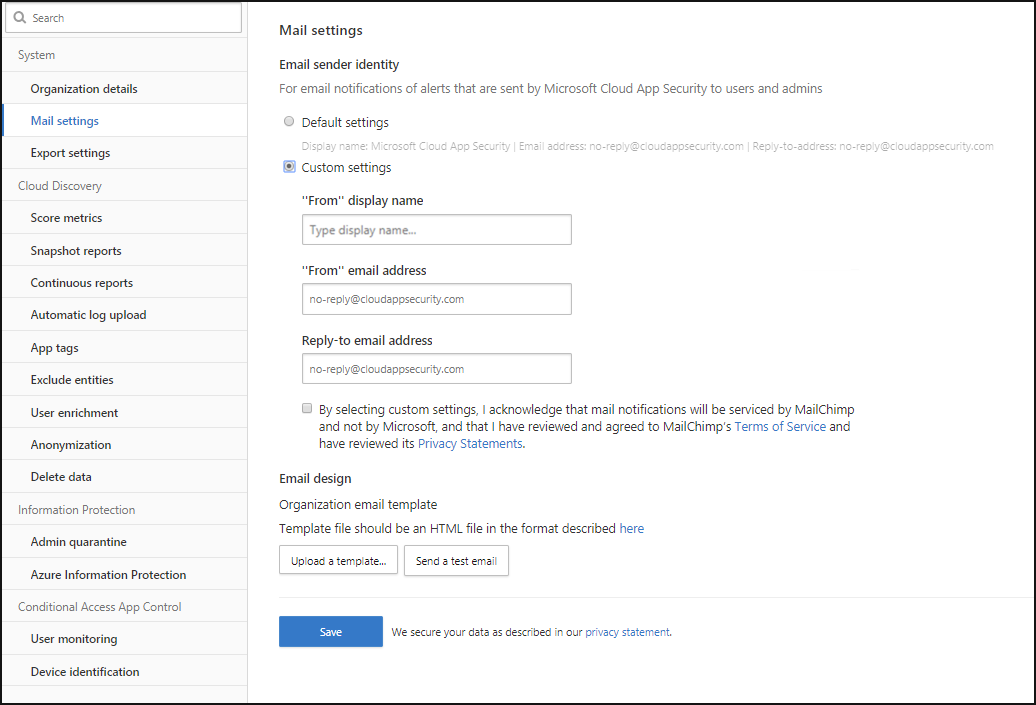
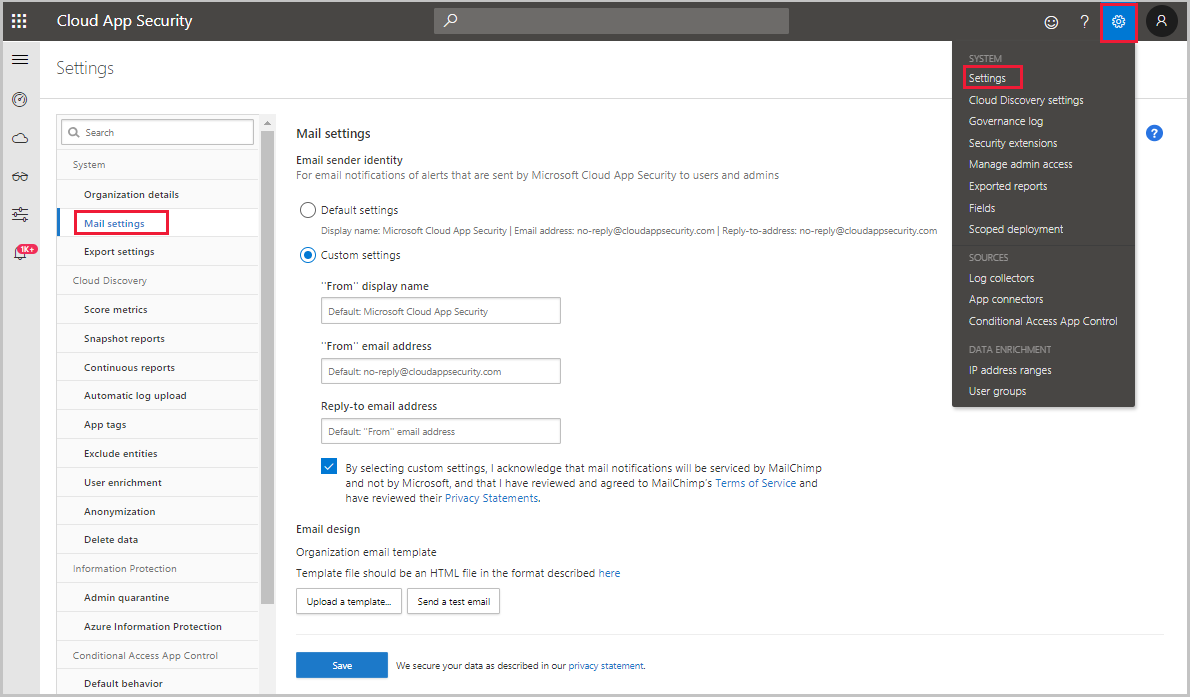
PNG9- updating screenshots and text for Ux change

diff --git a/CloudAppSecurityDocs/mail-settings.md b/CloudAppSecurityDocs/mail-settings.md
@@ -7,7 +7,7 @@ keywords:
 author: rkarlin
 ms.author: rkarlin
 manager: mbaldwin
-ms.date: 5/29/2018
+ms.date: 11/16/2018
 ms.topic: conceptual
 ms.prod:
 ms.service: cloud-app-security
@@ -25,42 +25,50 @@ ms.suite: ems
 #ms.custom:
 
 ---
+# Email notification preferences
 
 *Applies to: Microsoft Cloud App Security*
 
+This article provides information about how to personalize the email notifications sent by Cloud App Security.
 
-##  <a name="mailsettings"></a> Set email notification preferences  
+## <a name="mailsettings"></a> Set email notification preferences  
 
-To set parameters for email notifications sent from Microsoft Cloud App Security to administrators requesting alerts, and notifications sent to end users about breaches in which they are involved, follow this procedure. For information about the Microsoft Cloud App Security email server IP address that you should whitelist in your anti-spam service, see [Network requirements](network-requirements.md). 
+ Microsoft Cloud App Security sends email notifications to administrators requesting alerts and to end users involved in breaches. To set parameters for email notifications, follow this procedure. For information about the Microsoft Cloud App Security email server IP address that you should whitelist in your anti-spam service, see [Network requirements](network-requirements.md).
 
-
-1. In the menu bar, click the settings cog ![settings icon](./media/settings-icon.png "settings icon") and select **Settings**, and then select the **Mail settings** tab.  
+1. In the menu bar, click the settings cog, select **Settings**, and then select the **Mail settings** tab.  
 
    ![mail settings](./media/mail-settings-config.png)
 
-2. Under **Email sender identity**: If you are planning to use the default email settings, you don't need to change anything in this section. If you want to customize the email sender identity, you can set any of the settings here to customize the field you want to change. You can change any or all of the following: **From display name**, **From email address**, **Reply-to email address**. Microsoft Cloud App Security accomplishes this for you by using a third-party mail service called MailChimp®. Make sure you review and accept MailChimp's Terms of Service and Privacy Statement in order to enable this - otherwise Microsoft Cloud App Security will send the notifications using the default settings.
-   
+2. Under **Email sender identity**: If you're planning to use the default email settings, you don't need to change anything in this section. If you want to customize the email sender identity, you can set any of the settings here to customize the field you want to change. You can change any or all of the following items: **From display name**, **From email address**, **Reply-to email address**. Microsoft Cloud App Security accomplishes the customization by using a third-party mail service called MailChimp®. Make sure you review and accept MailChimp's Terms of Service and Privacy Statement to enable customization. Otherwise, Microsoft Cloud App Security will send the notifications using the default settings.
+ 
    > [!NOTE]
    > Only unicode characters are supported in the display name and the email address according to the [rfc822 standard](http://www.rfc-editor.org/rfc/rfc822.txt).
 
   
-3. For the **Email design**, you can use an html file to customize and design the email messages sent from the system. The html file used for your template should include the following:  
+3. For the **Email design**, you can use an html file to customize and design the email messages sent from the system. The html file used for your template should include the following things:  
   
-   -   All template CSS files should be inline in the template.  
+   - All template CSS files should be inline in the template.  
   
-   -   The template should have three un-editable placeholders:  
+   - The template should have three uneditable placeholders:  
   
-        %%logo%% - a URL to your company's logo that was uploaded in the General setting page  
+        - **%%logo%%** - URL to your company's logo that was uploaded in the General setting page.  
   
-        %%title%% - a placeholder for the title of the email, as set by the policy.  
+        - **%%title%%** - Placeholder for the title of the email, as set by the policy.  
 
-        %%content%% - a placeholder for the content that will be included for end users, as set by the policy.  
-     
+        - **%%content%%** - Placeholder for the content that will be included for end users, as set by the policy.  
+
 4. Click **Upload a template...** and select the file you created. 
 
-5. Then, click **Send a test email** to send yourself a test email to see an example of the template you created. The email will be sent to the account you used to log into the portal. In the test email you will be able to see the metadata fields, the template, the email subject, the title in the email body and the content.  The following is a sample email template: 
+5. Click **Send a test email** to email yourself an example of the template you created. The email will be sent to the account you used to log into the portal. In the test email, you'll see and verify the following items:
+    - The metadata fields
+    - The template
+    - The email subject
+    - The title in the email body
+    - The content
 
+## Sample email template
 
+Below is a sample email template:
 
 ```html
 <!DOCTYPE html PUBLIC "-//W3C//DTD XHTML 1.0 Transitional//EN" "http://www.w3.org/TR/xhtml1/DTD/xhtml1-transitional.dtd">
@@ -114,15 +122,10 @@ To set parameters for email notifications sent from Microsoft Cloud App Security
           </table>  
             </body>  
           </html>  
-   ```
-  
+```
 
-  
-  
+## Next steps
 
-  
-    
-## See Also  
 [Set up Cloud Discovery](set-up-cloud-discovery.md)   
 
 [Premier customers can also choose Cloud App Security directly from the Premier Portal.](https://premier.microsoft.com/)  
